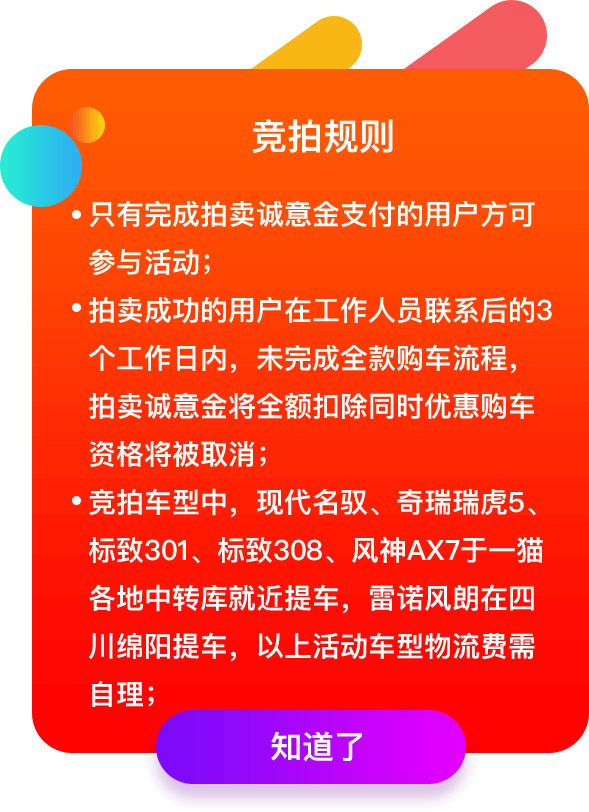
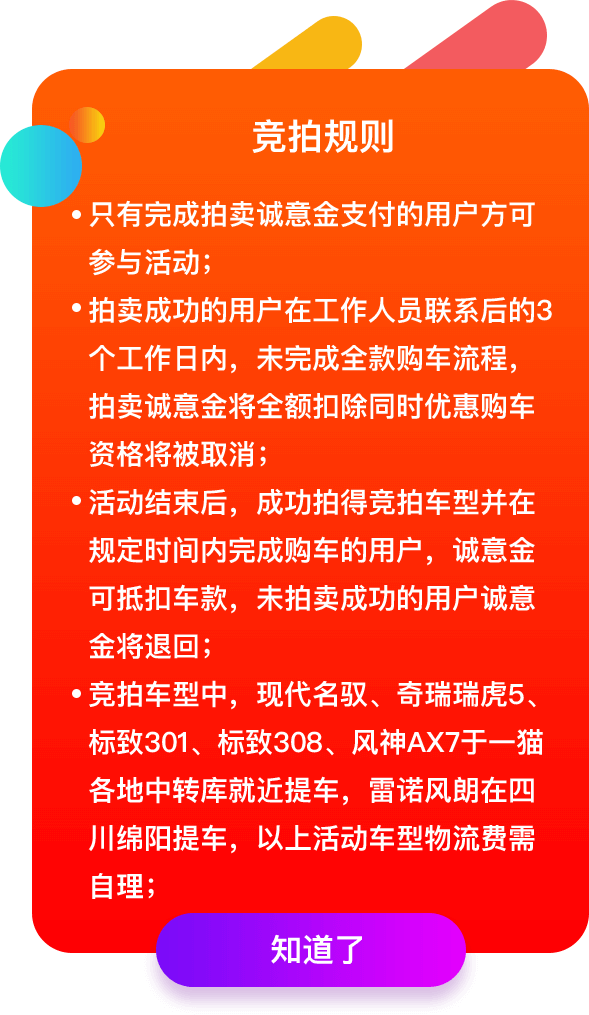
竞拍规则添加

Changed region(s): [[0.0, 0.0308, 1.0, 0.9852], [0.5195, 0.0, 0.6112, 0.0308], [0.7946, 0.0, 0.8251, 0.0308]]

diff --git a/src/page/topic/20171111/auction.vue b/src/page/topic/20171111/auction.vue
@@ -58,7 +58,7 @@
         </div>
       </div>
       <div class="auction-tel">
-        <a href="tel:400-825-2368">活动咨询：400-825-2368</a>
+        <span>活动咨询：400-825-2368</span>
       </div>
     </div>
     <!-- 弹窗1---->
@@ -411,7 +411,7 @@
     background: -moz-linear-gradient(right, #f7286c, #f9d210); /* Firefox 3.6 - 15 */
     background: linear-gradient(to right, #f7286c , #f9d210); /* 标准的语法 */}
   .auction-tel{text-align:center;font-size:0.4rem;}
-  .auction-tel a{color:#7779ff;}
+  .auction-tel span{color:#7779ff;}
   .ac-con{padding:0.467rem 0.333rem}
   .auction-content{padding-bottom:0.4rem;}
   .ac-item{background:#9205cb;color:#FFF;border-radius:0.133rem;margin-bottom:0.4rem;}
@@ -456,14 +456,14 @@
   .ac-nodata span{position:absolute;top:0;left:0;right:0;bottom:0;margin:auto;background:url(../../../assets/topic-pic1.png) no-repeat 0 0;width:4.8rem;height:1.4rem;background-size:100%;}
   .auction-dialog{position:fixed;top:0;left:0;bottom:0;right:0;background:rgba(0,0,0,0.75)}
   .auction-dialog-con{color:#FFF;position:fixed;top:50%;left:50%;transform:translateX(-50%) translateY(-50%);width:7.853rem;height:6.49rem;background:url(../../../assets/topic-banner2.png) no-repeat 0 0;background-size:100%;}
-  .auction-dialog-con2{color:#FFF;position:fixed;top:50%;left:50%;transform:translateX(-50%) translateY(-50%);width:7.853rem;height:10.82rem;background:url(../../../assets/topic-banner3.png) no-repeat 0 0;background-size:100%;}
+  .auction-dialog-con2{color:#FFF;position:fixed;top:50%;left:50%;transform:translateX(-50%) translateY(-50%);width:7.853rem;height:13.53rem;background:url(../../../assets/topic-banner3.png) no-repeat 0 0;background-size:100%;}
   .auction-dialog-wrap{height:100%;position:relative;}
   .auction-dialog-wrap span{position:absolute;bottom:0.4rem;left:0;width:100%;height:1rem;}
-  .auction-dialog-con .dialog-t1{font-size:0.48rem;padding:1.9rem 1.5rem 0;text-align:center;}
+  .auction-dialog-con .dialog-t1{font-size:0.48rem;padding:1.9rem 1.5rem 0;text-align:center;line-height:1.4;}
   .auction-dialog-con .dialog-t2{text-align:center;padding-top:0.77rem;font-size:0.4rem;position:relative;}
   .auction-dialog-con .dialog-t2 select{display:inline-block;-webkit-appearance:none;border:none;background:#FFF;width:4.18rem;height:1rem;border-radius:0.25rem;color:#d300fc;margin-left:0.13rem;text-indent:0.4rem;}
   .auction-dialog-con .dialog-t2::after{position:absolute;top:1.05rem;right:1.2rem;content:"";display:block;width:0;height:0;border-left:0.2rem solid transparent;border-right:0.2rem solid transparent;border-top:0.3rem solid #9008fa;}
-  .auction-dialog-con .dialog-t3{padding-top:1rem;text-align:center;font-size:0.427rem;text-indent:0.4267rem;}
+  .auction-dialog-con .dialog-t3{padding-top:1.05rem;text-align:center;font-size:0.427rem;text-indent:0.4267rem;}
   .auction-dialog-con .dialog-t4{text-align:center;font-size:0.4rem;padding-top:0.6rem}
   .auction-dialog-con .dialog-t5{font-size:0.48rem;padding:2.5rem 1.5rem 0;text-align:center;}
   .auction-dialog-con .dialog-t6{font-size:0.48rem;padding:2.5rem 0 0.5rem;text-align:center;}
